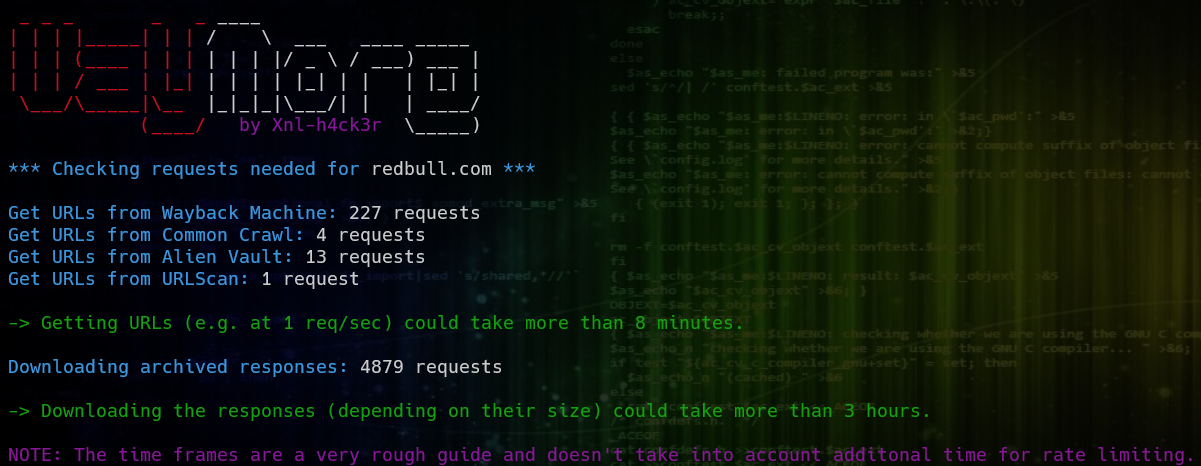
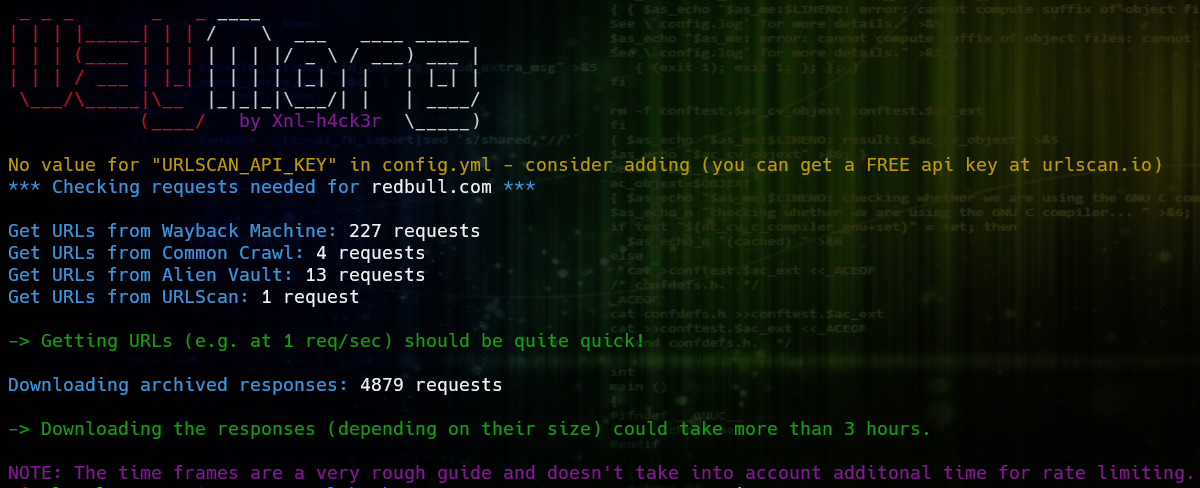
v1.37 - see CHANGELOG.md for details

diff --git a/waymore.py b/waymore.py
@@ -801,7 +801,7 @@ def processURLOutput():
         
         if args.check_only:
             totalRequests = checkWayback + checkCommonCrawl + checkAlienVault + checkURLScan
-            minutes = totalRequests*2 // 60
+            minutes = totalRequests*1 // 60
             hours = minutes // 60
             days = hours // 24
             if minutes < 5:
